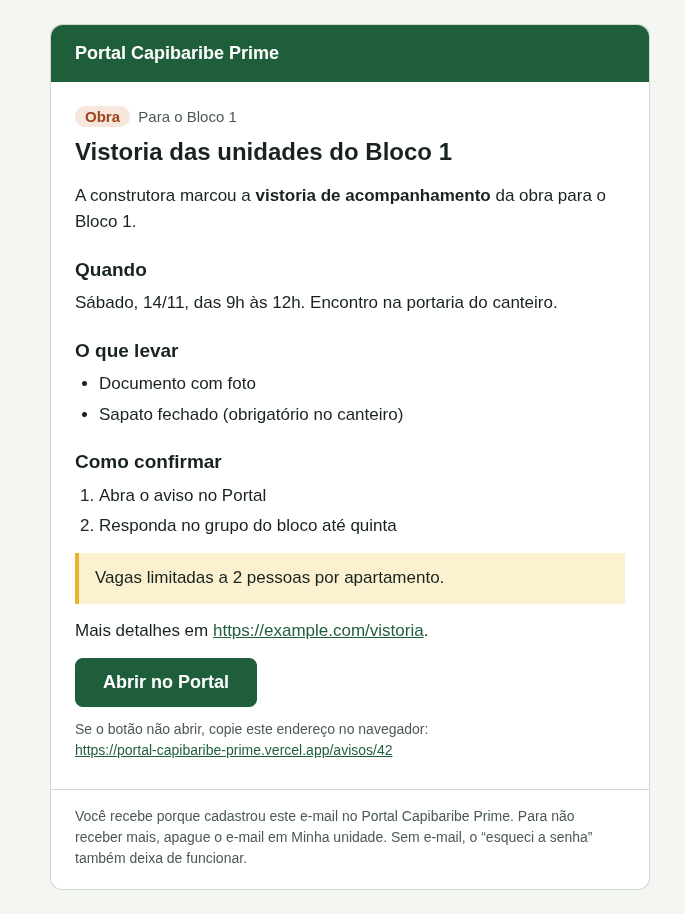
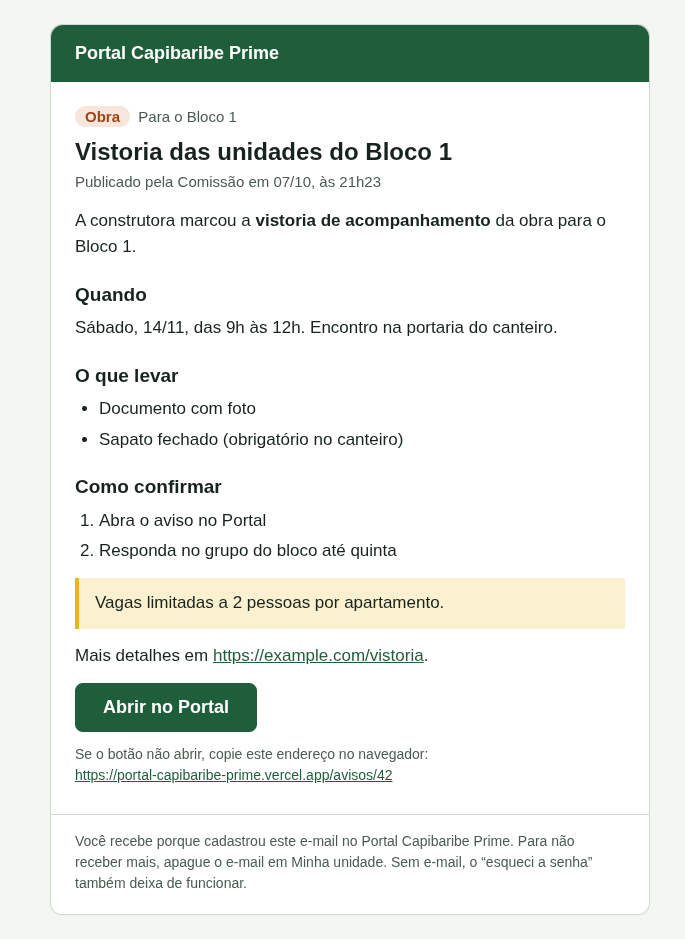
docs: revisão do épico B do M2 nas dúvidas e no spec; prints e exemplos de e-mail refeitos

Changed region(s): [[0.092, 0.0306, 0.9197, 0.8578], [0.092, 0.8884, 0.8584, 0.9497]]

diff --git a/docs/superpowers/prints/m2-email/exemplo-email-aviso.html b/docs/superpowers/prints/m2-email/exemplo-email-aviso.html
@@ -1,18 +1,22 @@
 <!doctype html>
 <html lang="pt-BR">
 <head><meta charset="utf-8"><meta name="viewport" content="width=device-width,initial-scale=1">
+<meta name="color-scheme" content="light">
+<meta name="supported-color-schemes" content="light">
 <title>Vistoria das unidades do Bloco 1</title></head>
 <body style="margin:0;padding:0;background:#f4f6f2;font-family:'Atkinson Hyperlegible',Arial,Helvetica,sans-serif;color:#17231c">
+<div style="display:none;max-height:0;max-width:0;overflow:hidden;opacity:0;font-size:1px;line-height:1px;color:#f4f6f2;mso-hide:all">A construtora marcou a vistoria de acompanhamento da obra para o Bloco 1.</div>
 <table role="presentation" width="100%" cellpadding="0" cellspacing="0" style="background:#f4f6f2">
 <tr><td align="center" style="padding:24px 12px">
 <table role="presentation" width="100%" cellpadding="0" cellspacing="0" style="max-width:600px;background:#ffffff;border:1px solid #cfd8d1;border-radius:12px">
 <tr><td style="padding:18px 24px;background:#1f5e3b;border-radius:12px 12px 0 0;color:#ffffff;font-size:18px;font-weight:bold">Portal Capibaribe Prime</td></tr>
 <tr><td style="padding:24px 24px 8px">
-<p style="margin:0 0 10px;font-size:15px;color:#4a5a50"><span style="display:inline-block;padding:2px 10px;border-radius:999px;background:#f7e6dc;color:#9c4517;font-weight:bold">Obra</span> &nbsp;Para o Bloco 1</p><h1 style="margin:0 0 16px;font-size:24px;line-height:1.25;color:#17231c">Vistoria das unidades do Bloco 1</h1><p style="margin:0 0 14px;font-size:17px;line-height:1.55;color:#17231c">A construtora marcou a <strong>vistoria de acompanhamento</strong> da obra para o Bloco 1.</p><h2 style="margin:22px 0 8px;font-size:19px;line-height:1.3;color:#17231c">Quando</h2><p style="margin:0 0 14px;font-size:17px;line-height:1.55;color:#17231c">Sábado, 14/11, das 9h às 12h. Encontro na portaria do canteiro.</p><h2 style="margin:22px 0 8px;font-size:19px;line-height:1.3;color:#17231c">O que levar</h2><ul style="margin:0 0 14px;padding-left:24px;font-size:17px;line-height:1.55;color:#17231c"><li style="margin:0 0 4px">Documento com foto</li><li style="margin:0 0 4px">Sapato fechado (obrigatório no canteiro)</li></ul><h2 style="margin:22px 0 8px;font-size:19px;line-height:1.3;color:#17231c">Como confirmar</h2><ol style="margin:0 0 14px;padding-left:24px;font-size:17px;line-height:1.55;color:#17231c"><li style="margin:0 0 4px">Abra o aviso no Portal</li><li style="margin:0 0 4px">Responda no grupo do bloco até quinta</li></ol><blockquote style="margin:0 0 14px;padding:12px 16px;border-left:4px solid #e8b22a;background:#fbf0cf;font-size:17px;line-height:1.55;color:#17231c">Vagas limitadas a 2 pessoas por apartamento.</blockquote><p style="margin:0 0 14px;font-size:17px;line-height:1.55;color:#17231c">Mais detalhes em <a href="https://example.com/vistoria" style="color:#1f5e3b;text-decoration:underline;word-break:break-all">https://example.com/vistoria</a>.</p>
+<p style="margin:0 0 10px;font-size:15px;color:#4a5a50"><span style="display:inline-block;padding:2px 10px;border-radius:999px;background:#f7e6dc;color:#9c4517;font-weight:bold">Obra</span> &nbsp;Para o Bloco 1</p><h1 style="margin:0 0 6px;font-size:24px;line-height:1.25;color:#17231c">Vistoria das unidades do Bloco 1</h1><p style="margin:0 0 18px;font-size:15px;color:#4a5a50">Publicado pela Comissão em 07/10, às 21h23</p><p style="margin:0 0 14px;font-size:17px;line-height:1.55;color:#17231c">A construtora marcou a <strong>vistoria de acompanhamento</strong> da obra para o Bloco 1.</p><h2 style="margin:22px 0 8px;font-size:19px;line-height:1.3;color:#17231c">Quando</h2><p style="margin:0 0 14px;font-size:17px;line-height:1.55;color:#17231c">Sábado, 14/11, das 9h às 12h. Encontro na portaria do canteiro.</p><h2 style="margin:22px 0 8px;font-size:19px;line-height:1.3;color:#17231c">O que levar</h2><ul style="margin:0 0 14px;padding-left:24px;font-size:17px;line-height:1.55;color:#17231c"><li style="margin:0 0 4px">Documento com foto</li><li style="margin:0 0 4px">Sapato fechado (obrigatório no canteiro)</li></ul><h2 style="margin:22px 0 8px;font-size:19px;line-height:1.3;color:#17231c">Como confirmar</h2><ol style="margin:0 0 14px;padding-left:24px;font-size:17px;line-height:1.55;color:#17231c"><li style="margin:0 0 4px">Abra o aviso no Portal</li><li style="margin:0 0 4px">Responda no grupo do bloco até quinta</li></ol><blockquote style="margin:0 0 14px;padding:12px 16px;border-left:4px solid #e8b22a;background:#fbf0cf;font-size:17px;line-height:1.55;color:#17231c">Vagas limitadas a 2 pessoas por apartamento.</blockquote><p style="margin:0 0 14px;font-size:17px;line-height:1.55;color:#17231c">Mais detalhes em <a href="https://example.com/vistoria" style="color:#1f5e3b;text-decoration:underline;word-break:break-all">https://example.com/vistoria</a>.</p>
 <table role="presentation" cellpadding="0" cellspacing="0" style="margin:8px 0 12px"><tr>
 <td style="border-radius:8px;background:#1f5e3b"><a href="https://portal-capibaribe-prime.vercel.app/avisos/42" style="display:inline-block;padding:14px 28px;color:#ffffff;font-size:18px;font-weight:bold;text-decoration:none;border-radius:8px">Abrir no Portal</a></td>
 </tr></table>
 <p style="margin:0 0 20px;font-size:14px;line-height:1.5;color:#4a5a50">Se o botão não abrir, copie este endereço no navegador:<br><a href="https://portal-capibaribe-prime.vercel.app/avisos/42" style="color:#1f5e3b;text-decoration:underline;word-break:break-all">https://portal-capibaribe-prime.vercel.app/avisos/42</a></p>
+
 </td></tr>
 <tr><td style="padding:16px 24px 20px;border-top:1px solid #cfd8d1;font-size:14px;line-height:1.5;color:#4a5a50">Você recebe porque cadastrou este e-mail no Portal Capibaribe Prime. Para não receber mais, apague o e-mail em Minha unidade. Sem e-mail, o “esqueci a senha” também deixa de funcionar.</td></tr>
 </table>

diff --git a/docs/superpowers/prints/m2-email/exemplo-email-recuperacao.html b/docs/superpowers/prints/m2-email/exemplo-email-recuperacao.html
@@ -1,20 +1,24 @@
 <!doctype html>
 <html lang="pt-BR">
 <head><meta charset="utf-8"><meta name="viewport" content="width=device-width,initial-scale=1">
+<meta name="color-scheme" content="light">
+<meta name="supported-color-schemes" content="light">
 <title>Criar senha nova</title></head>
 <body style="margin:0;padding:0;background:#f4f6f2;font-family:'Atkinson Hyperlegible',Arial,Helvetica,sans-serif;color:#17231c">
+<div style="display:none;max-height:0;max-width:0;overflow:hidden;opacity:0;font-size:1px;line-height:1px;color:#f4f6f2;mso-hide:all">Link para criar a senha nova do Bloco 1, apartamento 203. Vale por 1 hora.</div>
 <table role="presentation" width="100%" cellpadding="0" cellspacing="0" style="background:#f4f6f2">
 <tr><td align="center" style="padding:24px 12px">
 <table role="presentation" width="100%" cellpadding="0" cellspacing="0" style="max-width:600px;background:#ffffff;border:1px solid #cfd8d1;border-radius:12px">
 <tr><td style="padding:18px 24px;background:#1f5e3b;border-radius:12px 12px 0 0;color:#ffffff;font-size:18px;font-weight:bold">Portal Capibaribe Prime</td></tr>
 <tr><td style="padding:24px 24px 8px">
-<h1 style="margin:0 0 16px;font-size:24px;line-height:1.25;color:#17231c">Criar senha nova</h1><p style="margin:0 0 14px;font-size:17px;line-height:1.55;color:#17231c">Pediram um link para criar uma senha nova no Portal Capibaribe Prime para o Bloco 1, apartamento 203.</p><p style="margin:0 0 14px;font-size:17px;line-height:1.55;color:#17231c"><strong>O link vale por 1 hora e só uma vez.</strong></p><p style="margin:0 0 14px;font-size:17px;line-height:1.55;color:#17231c">Se não foi você, apague este e-mail; sua senha continua a mesma.</p>
+<h1 style="margin:0 0 16px;font-size:24px;line-height:1.25;color:#17231c">Criar senha nova</h1><p style="margin:0 0 14px;font-size:17px;line-height:1.55;color:#17231c">Olá!</p><p style="margin:0 0 14px;font-size:17px;line-height:1.55;color:#17231c">Você (ou alguém da sua família) pediu “Esqueci minha senha” no Portal Capibaribe Prime para o Bloco 1, apartamento 203.</p><p style="margin:0 0 14px;font-size:17px;line-height:1.55;color:#17231c"><strong>O link vale por 1 hora e só uma vez.</strong></p>
 <table role="presentation" cellpadding="0" cellspacing="0" style="margin:8px 0 12px"><tr>
 <td style="border-radius:8px;background:#1f5e3b"><a href="https://portal-capibaribe-prime.vercel.app/redefinir-senha#token=EXEMPLO-de-token" style="display:inline-block;padding:14px 28px;color:#ffffff;font-size:18px;font-weight:bold;text-decoration:none;border-radius:8px">Criar senha nova</a></td>
 </tr></table>
 <p style="margin:0 0 20px;font-size:14px;line-height:1.5;color:#4a5a50">Se o botão não abrir, copie este endereço no navegador:<br><a href="https://portal-capibaribe-prime.vercel.app/redefinir-senha#token=EXEMPLO-de-token" style="color:#1f5e3b;text-decoration:underline;word-break:break-all">https://portal-capibaribe-prime.vercel.app/redefinir-senha#token=EXEMPLO-de-token</a></p>
+<p style="margin:0 0 14px;font-size:17px;line-height:1.55;color:#17231c">O link abre o Portal do condomínio, em portal-capibaribe-prime.vercel.app. O Portal nunca pede sua senha por e-mail nem por WhatsApp.</p><p style="margin:0 0 14px;font-size:17px;line-height:1.55;color:#17231c">Se não foi você, apague este e-mail; sua senha continua a mesma.</p>
 </td></tr>
-<tr><td style="padding:16px 24px 20px;border-top:1px solid #cfd8d1;font-size:14px;line-height:1.5;color:#4a5a50">Mandado pelo Portal Capibaribe Prime porque alguém pediu “Esqueci minha senha” para este apartamento.</td></tr>
+<tr><td style="padding:16px 24px 20px;border-top:1px solid #cfd8d1;font-size:14px;line-height:1.5;color:#4a5a50">Enviado pelo Portal Capibaribe Prime porque alguém pediu “Esqueci minha senha” para este apartamento.</td></tr>
 </table>
 </td></tr>
 </table>

diff --git a/docs/superpowers/duvidas-m2-email.md b/docs/superpowers/duvidas-m2-email.md
@@ -38,11 +38,12 @@ resto é decisão técnica que pode ser revista na revisão do marco.
   lista a deixaria pior. Quase todo leitor de e-mail mostra a parte HTML.
 
 ## 5. O que conta como falha de um destino e o que interrompe o canal
-- **Decisão:** destinatário recusado (`SMTPRecipientsRefused`) e mensagem recusada
-  (`SMTPDataError`) contam como falha daquele destino e o envio segue. Qualquer outro erro
-  (conexão caiu, tempo esgotado, senha de app errada, remetente recusado) interrompe o canal.
-- **Por quê:** o Gmail avisa a cota diária estourada recusando o remetente (`550 5.4.5`);
-  continuar seria bater na mesma parede 300 vezes. A peça comum já marca `interrompido` com as
+- **Decisão (corrigida na revisão, item 16):** destinatário recusado (`SMTPRecipientsRefused`)
+  e mensagem recusada comum (`SMTPDataError`, ex.: 552 5.3.4) contam como falha daquele destino
+  e o envio segue. `SMTPDataError` com código 421 ou 5.4.5 / 4.7.x no texto, remetente recusado
+  e qualquer outro erro (conexão caiu, tempo esgotado, senha de app errada) interrompem o canal.
+- **Por quê:** o Gmail avisa a cota diária estourada recusando o remetente ou a mensagem
+  (`550 5.4.5`); continuar seria bater na mesma parede 300 vezes. A peça comum já marca `interrompido` com as
   contagens até ali e loga só o tipo do erro.
 
 ## 6. Uma conexão por lote, tempo limite de 20 s
@@ -112,3 +113,49 @@ resto é decisão técnica que pode ser revista na revisão do marco.
 - "Esqueceu a senha? Na tela de entrar, toque em “Esqueci minha senha”: se o apartamento tiver
   e-mail cadastrado, chega um link para criar uma senha nova. E quem cadastrou e-mail passa a
   receber os avisos também por lá."
+
+## 16. Revisão independente (código e UX): o que mudou
+Duas revisões sem contexto; cada correção com teste que falhava antes.
+- **Cota do Gmail na mensagem interrompe** (código 1): `SMTPDataError` com código 421 ou com
+  5.4.5 / 4.7.x no texto (cota do dia, limite de envio) e `SMTPSenderRefused` interrompem o
+  canal; mensagem recusada comum (ex.: 552 5.3.4) continua sendo falha só daquele destino. O
+  item 5 acima fica corrigido por este.
+- **Dois links da mesma unidade ao mesmo tempo** (código 2): `_token_que_vale(travar=True)`
+  trava o token **e a unidade** (`for update of token_recuperacao, unidade`); teste de corrida
+  com dois links e com o mesmo link.
+- **Reserva presa por 24 h** (código 3): resolvido **sem tocar em `notificacoes.py`**. O
+  `ENVIADOR` do e-mail, ao levantar, baixa `resultado.reservados` para o que foi tentado (a
+  mensagem que estava saindo fica contada); a peça comum já grava `resultado.contagens()` no
+  `interrompido`, então a sobra volta à cota. No "esqueci a senha", se nem conectou
+  (`email.NadaSaiu`), o token é apagado (devolve a cota e um dos 3 pedidos da hora); se caiu
+  durante o envio, o link fica (pode ter chegado).
+- **Limite por IP do pedido** (código 4): fica com o coordenador (regra no firewall da Vercel
+  para `/api/acesso/recuperacao`, como na dúvida 8 do contrato). Nada no código.
+- **Apartamento que não existe** (UX 5): a tela de pedir usa a planta do protótipo
+  (`/^[1-5][0-7]0[1-8]$/`, `UNIDADE_OK`). **[coordenador]** A tela de entrar (`Entrar.tsx`, do
+  épico A do M1) usa uma regra mais solta (`/^[1-9][0-7][0-9]{2}$/`, a mesma da API) e responde
+  "Bloco, apartamento ou senha incorretos" para os dois casos; não mexi nela.
+- **Pedido feito** (UX 6): "Pedido feito para o Bloco N, apartamento NNN. O e-mail chega em
+  alguns minutos, de Portal Capibaribe Prime (<conta>), com o assunto “…”. Se não aparecer,
+  olhe também em Spam ou Lixo eletrônico. O link vale por 1 hora."; o foco vai para a caixa.
+  **Mudança de contrato no épico:** `RecuperacaoPedida` ganhou `remetente` (a
+  `PORTAL_SMTP_USUARIO` da configuração, ou nulo com o e-mail desligado; nunca fixo no código) e
+  `assunto`, iguais para qualquer login (a rota continua sem abrir o banco). **[coordenador]**
+  Por isso a asserção de texto exato de `test_pedido_responde_igual_e_deixa_tudo_para_depois`
+  (`test_m2_rotas.py`, comum) virou "respostas iguais entre si e `mensagem` = `MSG_PEDIDO`".
+  Palavra única: "enviar" ("Enviar link", "enviamos", "Enviado pelo Portal" no e-mail), a mesma
+  da frase de H-04.
+- **E-mail de recuperação** (UX 7): "Olá!", "Você (ou alguém da sua família) pediu “Esqueci
+  minha senha”…", e, depois do botão, "O link abre o Portal do condomínio, em <host de
+  PORTAL_URL_BASE>. O Portal nunca pede sua senha por e-mail nem por WhatsApp.".
+- **Link já usado** (UX 8): com o aparelho entrado, "Você já está no Portal. Para trocar a senha
+  de novo, vá em Minha unidade." + "Ir para os avisos". Sem sessão, a mensagem do 410 ganhou
+  "Se você já criou a senha nova, é só entrar com ela." (mudança de texto do contrato, no
+  épico).
+- **Menores** (UX 9): assunto do aviso = o título, com "Urgente: " na frente se for urgente
+  (antes "Aviso do Portal: <título>", do contrato); "Publicado pela Comissão em 07/10, às 21h23"
+  (assinatura do mural, `ASSINATURAS` de `servicos/avisos.py`, UTC−3 fixo de Recife: sem horário
+  de verão desde 2019 e sem depender do tzdata da função); prévia escondida no topo do HTML (o
+  resumo do aviso); `color-scheme` e `supported-color-schemes` claros; "a senha que a Comissão
+  mandou no grupo" no lugar de "a senha inicial"; recado depois de salvar com "Avise a família
+  da senha nova."

diff --git a/docs/superpowers/specs/m2-email.md b/docs/superpowers/specs/m2-email.md
@@ -9,6 +9,11 @@
 | **Plano** | `docs/superpowers/plans/m2-email.md` |
 | **Dúvidas** | `docs/superpowers/duvidas-m2-email.md` |
 
+> **Revisão independente (código e UX):** o que mudou depois da primeira versão (assunto do
+> aviso, textos das telas e do e-mail, `remetente` e `assunto` na resposta do pedido, cota do
+> Gmail na mensagem, trava da unidade, reserva devolvida) está em `duvidas-m2-email.md`, item
+> 16, e vale sobre o texto abaixo.
+
 ## 1. Objetivo
 
 Ligar o canal de e-mail que o contrato deixou marcado: a cópia do aviso por e-mail para as
@@ -55,7 +60,7 @@ as mensagens.
    - `resultado.salvar()` a cada `SALVAR_A_CADA` tentativas.
 4. Não faz commit (contrato, seção 5).
 
-**Conteúdo** (assunto "Aviso do Portal: <título>"):
+**Conteúdo** (assunto: o título; "Urgente: " na frente se urgente):
 
 | Parte | Texto puro | HTML |
 |---|---|---|
@@ -114,7 +119,7 @@ A rota faz o commit e grava o cookie.
 - **`/esqueci-a-senha`** (`EsqueciASenha.tsx`, só sem sessão, como `/entrar`): título "Esqueci
   minha senha" com seta de voltar para `/entrar`; a frase do protótipo; bloco em 5 botões e
   apartamento, **o mesmo formato e as mesmas regras da tela de entrar** (`montarLogin`,
-  `limparApartamento`, colar `1203` marca o bloco); "Mandar link". Erros de formulário antes de
+  `limparApartamento`, colar `1203` marca o bloco); "Enviar link". Erros de formulário antes de
   mandar: sem bloco, sem apartamento, apartamento impossível ("Esse apartamento não existe.
   Confira o bloco e o número da porta.", do protótipo). Depois do 202, a caixa de status com a
   mensagem da API (H-04, sempre a mesma), o parágrafo para quem não tem e-mail (grupo do
